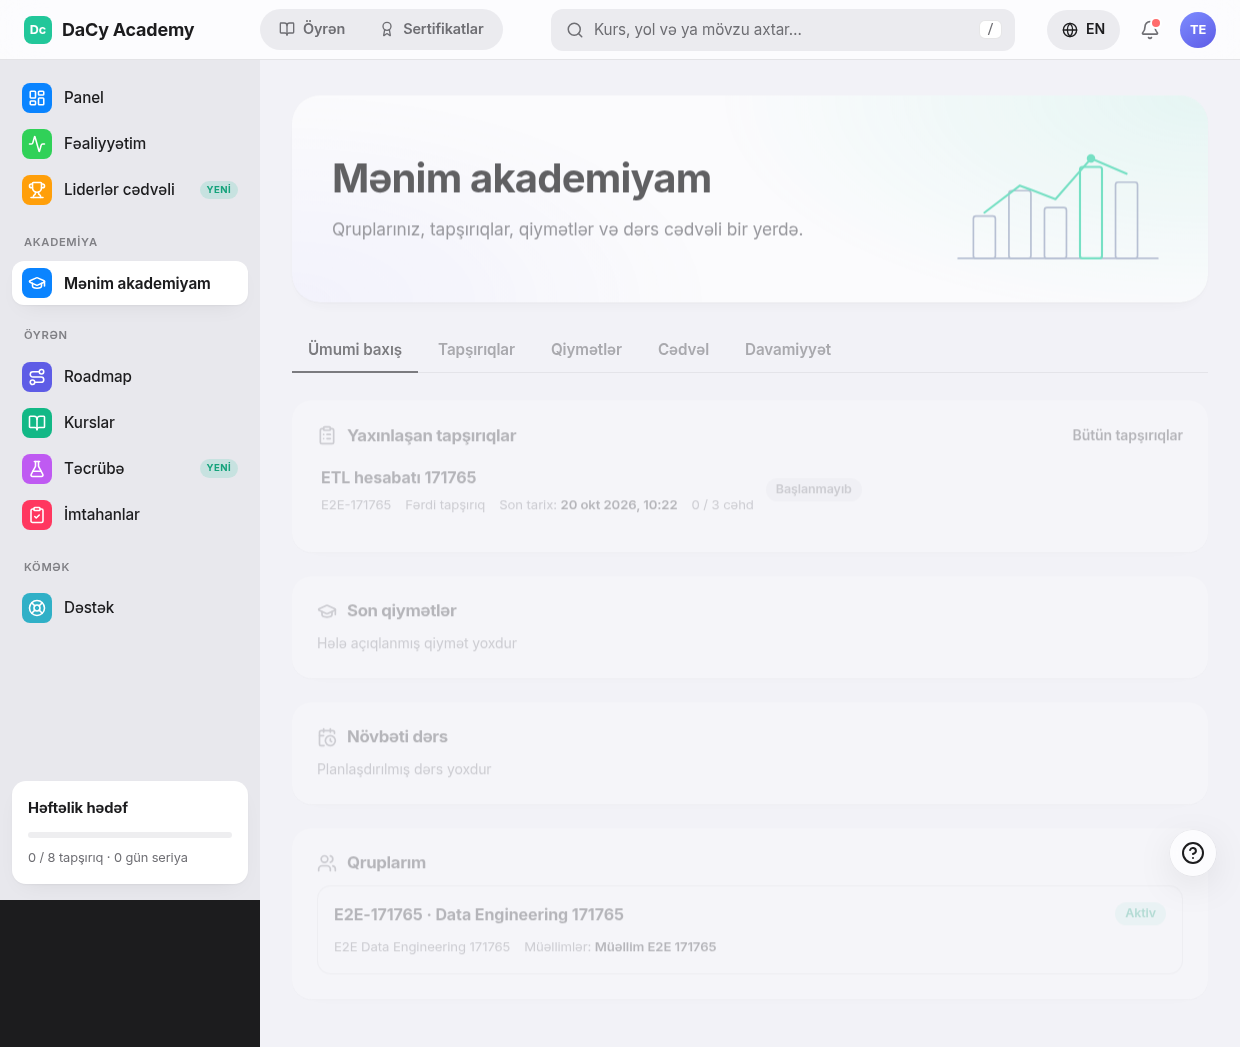
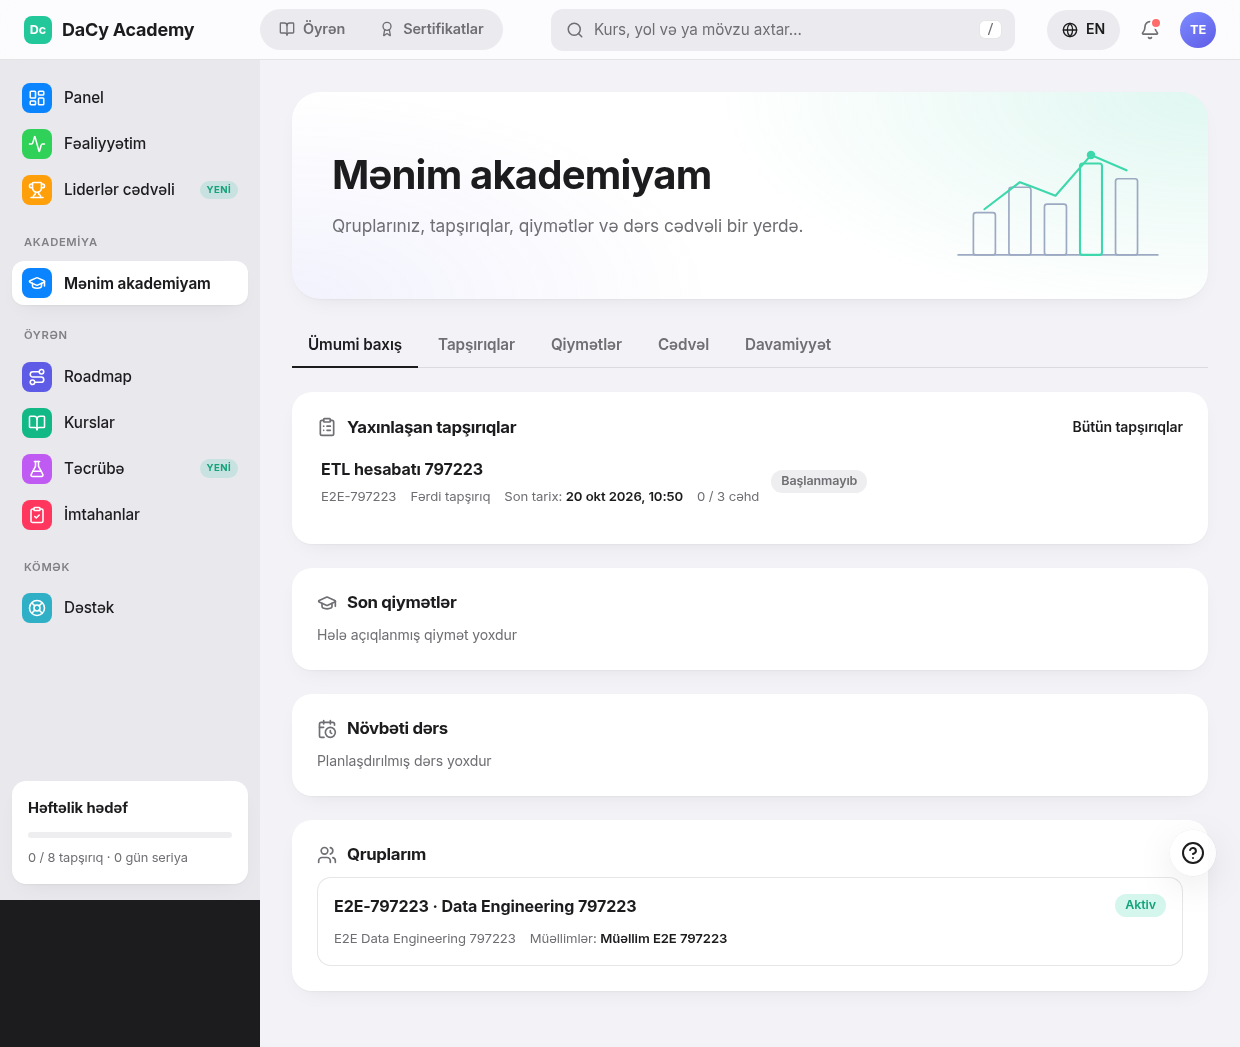
test(academy): mobile layout check and stable screenshots; docs updated
- Acceptance spec: 390 px pages must not overflow horizontally; screenshots
  taken with animations fast-forwarded (the iOS entry animation starts at
  opacity 0)
- TESTING / IMPLEMENTATION_STATUS / PROGRESS updated with the browser results

Claude-Session: https://claude.ai/code/session_014wmJexaakGGD4NxaMSpyNC

diff --git a/apps/web/e2e/academy.spec.ts b/apps/web/e2e/academy.spec.ts
@@ -29,7 +29,11 @@ const groupCode = `E2E-${short}`;
 const assignment = `ETL hesabatı ${short}`;
 const shot = (page: Page, name: string) => {
   mkdirSync(SHOTS, { recursive: true });
-  return page.screenshot({ path: resolve(SHOTS, `academy-${name}.png`), fullPage: true });
+  return page.screenshot({
+    path: resolve(SHOTS, `academy-${name}.png`),
+    fullPage: true,
+    animations: 'disabled',
+  });
 };
 const localInput = (d: Date) => {
   const p = (n: number) => String(n).padStart(2, '0');

diff --git a/docs/academy-management/TESTING.md b/docs/academy-management/TESTING.md
@@ -28,7 +28,7 @@ directly with controlled clocks.
 | `apps/api/test/academy-grading.e2e-spec.ts` | 13 | staff submission list, validation (range, missing, foreign item, rubric misuse, selection policy), assistant drafts and cannot release, release visibility, XP unchanged, changing a released grade (reason, audit before/after, version conflict), late penalty rounding, return + resubmission, automatic drafts, rubric grading, stale detection, bulk release, gradebook averages, CSV formula-injection protection, INSTRUCTOR_SELECTED (older attempt is not stale, foreign attempt rejected), DB score triggers, cancelled assignment read-only |
 | `apps/api/test/academy-classes.e2e-spec.ts` | 8 | single sessions and permissions, weekly schedule in Asia/Baku, too long / empty schedules, reschedule one session, cancel, outbox, audit, meeting-link visibility, schedule ranges, attendance upsert and rules, DB composite FK, own attendance rates, delete rules, session detail endpoint, next class in overview |
 | `apps/api/test/academy-notifications.e2e-spec.ts` | 10 | outbox → notifications, idempotent processing, duplicate events, retry with backoff → FAILED, bell integration (az / en, read state, feature flag), deadline reminders with extensions and no duplicates, scheduled publish by the worker, grade / return / class notifications, instructor review counter, analytics formulas, instructor and admin overviews, LAB assignments |
-| `apps/web/e2e/academy.spec.ts` (Playwright) | 5 | full acceptance flow in the browser: admin creates program and group, assigns the lead, enrolls the student → teacher creates and publishes → student submits → teacher grades and releases → student sees the grade; English UI |
+| `apps/web/e2e/academy.spec.ts` (Playwright) | 6 | full acceptance flow in the browser: admin creates program and group, assigns the lead, enrolls the student → teacher creates and publishes → student submits → teacher grades and releases → student sees the grade; mobile (390 px, no horizontal overflow); English UI |
 
 Totals after the Academy work: shared 105 (67 before), API e2e 22 suites / 202 tests (16 / 132 before),
 API unit 11 (unchanged), web unit 9 (unchanged).
@@ -41,3 +41,10 @@ API unit 11 (unchanged), web unit 9 (unchanged).
 - The HIGHEST_SCORE policy through the API (the selection function itself is unit-tested).
 - TERMINAL / CTF steps as assignment items end-to-end (the evidence adapter logic exists; e2e tests use SQL and QUIZ).
 - Multi-instance worker behaviour.
+
+## Regression of existing browser tests
+
+The whole Playwright suite cannot run in one go against a single API instance: the existing login rate limit
+(20 logins / minute / IP) returns 429 after ~20 logins. Run spec files separately (about one minute apart).
+Result on 2026-10-17: all existing spec files pass this way; `screenshots.spec.ts` › "dərs ekranı" timed out once
+waiting for the lab terminal and passed on an immediate rerun (lab timing, unrelated to the Academy).

diff --git a/PROGRESS.md b/PROGRESS.md
@@ -456,6 +456,6 @@ Müəllimin apardığı təhsil eyni tətbiqə əlavə olundu: bir hesab, bir gi
 - ✅ **Dərslər və davamiyyət**, **bildirişlər** (tranzaksion outbox, təkrarsız, son tarix xatırlatmaları, zəng menyusunda), **analitika** (düsturlar sənədləşdirilib).
 - ✅ **İnterfeys:** «Mənim akademiyam» (`/akademiya`), «Müəllim paneli» (`/muellim`), admin «Akademiya» bölməsi (`/admin/akademiya`); menyu rola görə görünür; azərbaycan dili əsas, ingilis dili tam (xəta kodları da).
 - ✅ **Bayraq:** `ACADEMY_MANAGEMENT_ENABLED` (false — modul gizlənir, endpoint-lər 404). Yeni env: `ACADEMY_WORKER_INTERVAL_SEC`, `ACADEMY_MAX_FILE_MB`.
-- ✅ **Testlər:** shared 105, API unit 11, API e2e 22 suite / 202 test, web 9 — hamısı keçir; Playwright qəbul ssenarisi (`e2e/academy.spec.ts`, 5 addım) keçir; web typecheck, lint və production build təmiz.
+- ✅ **Testlər:** shared 105, API unit 11, API e2e 22 suite / 202 test, web 9 — hamısı keçir; Playwright qəbul ssenarisi (`e2e/academy.spec.ts`, 6 test, mobil 390px daxil) keçir; mövcud Playwright testləri ayrı-ayrılıqda keçir; web typecheck, lint və production build təmiz.
 - ℹ Miqrasiya yalnız yeni cədvəllər yaradır; yalnız lokal inkişaf və test bazalarına tətbiq olunub, production-a deploy edilməyib.
 - ℹ Tam olmayanlar (IMPLEMENTATION_STATUS.md): e-poçt bildirişləri yoxdur; proqram redaktəsi / yazılış tarixçəsi / qrup tarixlərinin redaktəsi üçün UI yoxdur (API var); bəzi UI hissələri avtomatik testlə əhatə olunmayıb.

diff --git a/docs/academy-management/IMPLEMENTATION_STATUS.md b/docs/academy-management/IMPLEMENTATION_STATUS.md
@@ -57,7 +57,7 @@ Date: 2026-10-17 · Branch `claude/clever-dirac-f7c6aa` · Not deployed anywhere
 | Admin: instructors management, group settings, course links | 🟡 | |
 | Admin: program edit / archive UI, enrollment history UI, group dates / format / timezone edit UI | ⛔ | API exists (`PATCH /academy/programs/:id`, `/enrollments/:id/history`, `PATCH /academy/groups/:id`) |
 | Azerbaijani primary, English complete (incl. error codes) | ✅ | English verified in the acceptance test; dictionary parity enforced by the compiler |
-| Mobile layout | 🟡 | responsive classes; see the report for the screenshot check |
+| Mobile layout | ✅ | Playwright at 390 px: no horizontal page overflow on student overview, assignments, grades, schedule, assignment detail and teacher pages; screenshots in `docs/screenshots/academy-mobile-*.png` |
 
 ## Documentation
 
